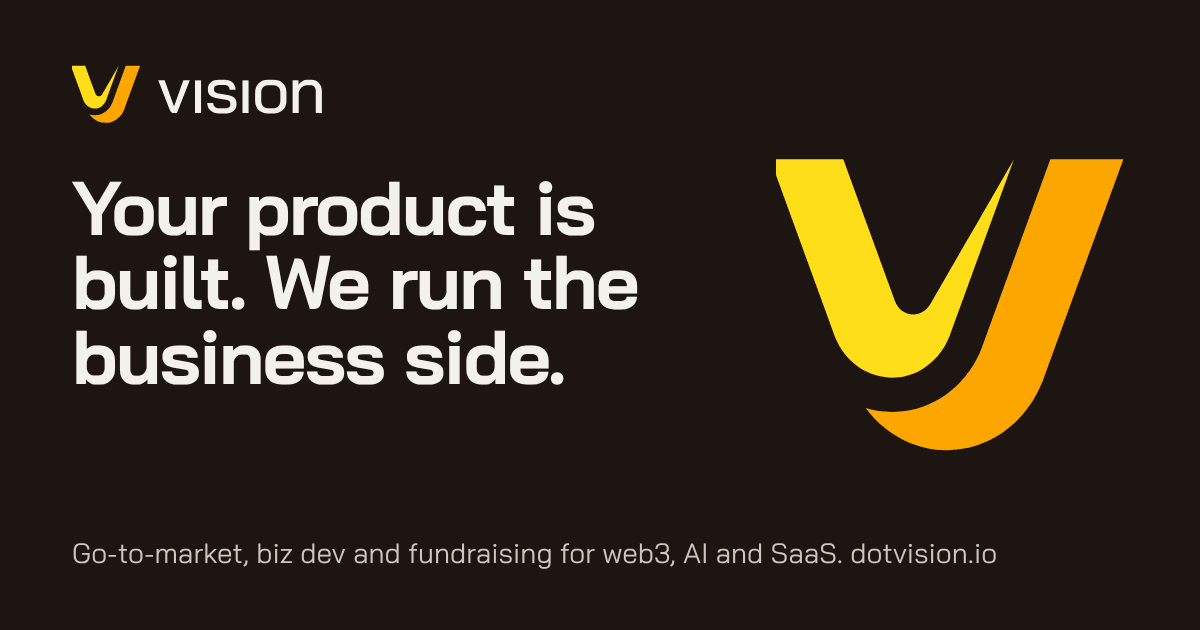
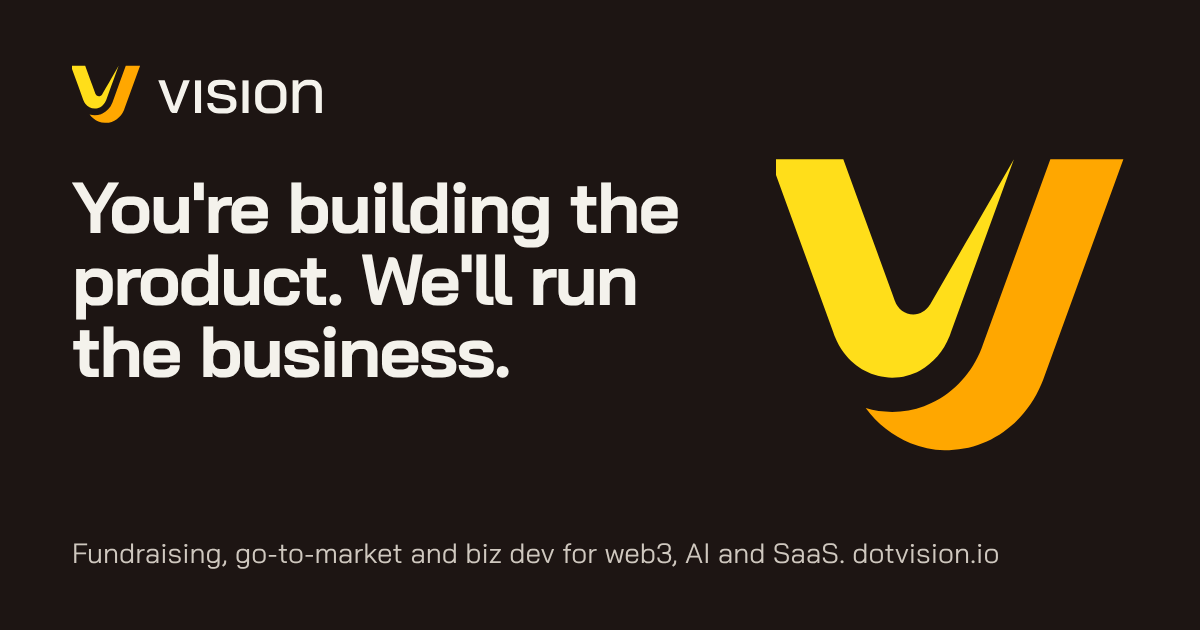
Narrative: 'You're building the product. We'll run the business.'
Reframe from 'your product is built' to teams still building: fundraising first,
new problem and signal lines, updated meta, share image, index.md and llms.txt.

Claude-Session: https://claude.ai/code/session_01DN2VngvYYc5T48k6RxHfrq

Changed region(s): [[0.0617, 0.2714, 0.5858, 0.6333], [0.0617, 0.8444, 0.8325, 0.9048]]

diff --git a/public/index.html b/public/index.html
@@ -12,25 +12,25 @@
 <!-- Fill these two at launch: GA4 measurement ID (G-...) and Cloudflare Turnstile site key -->
 <meta name="dv-ga" content="G-MG1VQRV3R3">
 <meta name="dv-turnstile" content="0x4AAAAAAFxAgJ9BPaBCj1j4">
-<title>Dot Vision | Go-to-market and business development for web3, AI and SaaS startups</title>
-<meta name="description" content="Dot Vision runs the business side for startups that can build but can't sell: go-to-market, biz dev and fundraising, plus EU (Malta, MiCA) or offshore structuring when needed. The team behind ENS Vision.">
+<title>Dot Vision | Fundraising, go-to-market and business development for web3, AI and SaaS startups</title>
+<meta name="description" content="Dot Vision runs the business side while you build: fundraising, go-to-market and biz dev for web3, AI and SaaS startups, plus EU (Malta, MiCA) or offshore structuring when needed. The team behind ENS Vision.">
 <link rel="canonical" href="https://dotvision.io/">
 <link rel="alternate" type="text/markdown" href="/index.md" title="Markdown version">
 <meta name="robots" content="index,follow,max-image-preview:large">
 <meta property="og:type" content="website">
 <meta property="og:site_name" content="Dot Vision">
 <meta property="og:title" content="Dot Vision: we run the business side of your startup">
-<meta property="og:description" content="Dot Vision runs the business side for startups that can build but can't sell: go-to-market, biz dev and fundraising, plus EU (Malta, MiCA) or offshore structuring when needed. The team behind ENS Vision.">
+<meta property="og:description" content="Dot Vision runs the business side while you build: fundraising, go-to-market and biz dev for web3, AI and SaaS startups, plus EU (Malta, MiCA) or offshore structuring when needed. The team behind ENS Vision.">
 <meta property="og:url" content="https://dotvision.io/">
 <meta property="og:image" content="https://dotvision.io/assets/og.png">
 <meta property="og:image:width" content="1200"><meta property="og:image:height" content="630">
-<meta property="og:image:alt" content="Dot Vision: your product is built, we run the business side">
+<meta property="og:image:alt" content="Dot Vision: you're building the product, we'll run the business">
 <meta name="twitter:card" content="summary_large_image">
 <meta name="twitter:site" content="@DotVisionLtd">
 <meta name="twitter:title" content="Dot Vision: we run the business side of your startup">
-<meta name="twitter:description" content="Dot Vision runs the business side for startups that can build but can't sell: go-to-market, biz dev and fundraising, plus EU (Malta, MiCA) or offshore structuring when needed. The team behind ENS Vision.">
+<meta name="twitter:description" content="Dot Vision runs the business side while you build: fundraising, go-to-market and biz dev for web3, AI and SaaS startups, plus EU (Malta, MiCA) or offshore structuring when needed. The team behind ENS Vision.">
 <meta name="twitter:image" content="https://dotvision.io/assets/og.png">
-<script type="application/ld+json">[{"@context": "https://schema.org", "@type": "ProfessionalService", "@id": "https://dotvision.io/#org", "name": "Dot Vision", "legalName": "Dot Vision Ltd", "url": "https://dotvision.io/", "logo": "https://dotvision.io/assets/logo.png", "image": "https://dotvision.io/assets/og.png", "description": "Dot Vision runs the business side for startups that can build but can't sell: go-to-market, biz dev and fundraising, plus EU (Malta, MiCA) or offshore structuring when needed. The team behind ENS Vision.", "email": "info@dotvision.io", "address": {"@type": "PostalAddress", "streetAddress": "Valletta Buildings, 2nd Floor, Suite 7, Triq Nofs in-Nhar", "addressLocality": "Valletta", "postalCode": "VLT 1103", "addressCountry": "MT"}, "vatID": "MT30162402", "leiCode": "9845008AAYC2B7PF6285", "identifier": {"@type": "PropertyValue", "propertyID": "Malta Business Registry (ROC)", "value": "C105164"}, "areaServed": "Worldwide", "founder": {"@type": "Person", "name": "Sasha Dordevic", "alternateName": "Furyan", "sameAs": ["https://www.linkedin.com/in/sashadordevic/"]}, "sameAs": ["https://x.com/DotVisionLtd", "https://www.linkedin.com/company/visionio/"], "knowsAbout": ["Go-to-market strategy", "Business development", "Fundraising", "Web3", "Blockchain", "Artificial intelligence", "SaaS", "MiCA", "Company structuring", "Malta"], "hasOfferCatalog": {"@type": "OfferCatalog", "name": "Services", "itemListElement": [{"@type": "Offer", "itemOffered": {"@type": "Service", "name": "Go-to-market and business development"}}, {"@type": "Offer", "itemOffered": {"@type": "Service", "name": "Strategy and fundraising"}}, {"@type": "Offer", "itemOffered": {"@type": "Service", "name": "Structuring, licensing and tax (EU or offshore)"}}, {"@type": "Offer", "itemOffered": {"@type": "Service", "name": "Pre-launch security and compliance check"}}]}}, {"@context": "https://schema.org", "@type": "WebSite", "@id": "https://dotvision.io/#site", "url": "https://dotvision.io/", "name": "Dot Vision", "publisher": {"@id": "https://dotvision.io/#org"}}, {"@context": "https://schema.org", "@type": "FAQPage", "mainEntity": [{"@type": "Question", "name": "What does a go-to-market sprint include?", "acceptedAnswer": {"@type": "Answer", "text": "A fixed-price sprint of 2 to 4 weeks. We start with a basics check, then sharpen who you sell to and why they'd switch, build a go-to-market plan for one segment and one channel, and open the first conversations with real buyers and partners."}}, {"@type": "Question", "name": "How much does it cost?", "acceptedAnswer": {"@type": "Answer", "text": "Every sprint has a fixed scope and a fixed price, agreed after a short intro call. If it works, we continue month to month. No long contracts."}}, {"@type": "Question", "name": "Do you only work with crypto projects?", "acceptedAnswer": {"@type": "Answer", "text": "No. We work with startups across web3, AI and SaaS. What they share: a strong product and a business side that is thin or missing."}}, {"@type": "Question", "name": "Can you help us set up in Malta, the EU or offshore?", "acceptedAnswer": {"@type": "Answer", "text": "Yes. We map the options for company setup, licensing (including MiCA), tax and banking, then coordinate licensed lawyers and accountants and keep the process moving. We don't give legal advice ourselves."}}, {"@type": "Question", "name": "Do you do security audits?", "acceptedAnswer": {"@type": "Answer", "text": "We run a light security and compliance check before launch: dependencies, TLS, GDPR and cookies, basic smart-contract checks. Full audits and penetration tests go to specialist partners we trust."}}, {"@type": "Question", "name": "Where are you based?", "acceptedAnswer": {"@type": "Answer", "text": "Dot Vision Ltd is a company registered in Malta, in the EU, with its office in Valletta. We work remotely with teams worldwide."}}]}]</script>
+<script type="application/ld+json">[{"@context": "https://schema.org", "@type": "ProfessionalService", "@id": "https://dotvision.io/#org", "name": "Dot Vision", "legalName": "Dot Vision Ltd", "url": "https://dotvision.io/", "logo": "https://dotvision.io/assets/logo.png", "image": "https://dotvision.io/assets/og.png", "description": "Dot Vision runs the business side while you build: fundraising, go-to-market and biz dev for web3, AI and SaaS startups, plus EU (Malta, MiCA) or offshore structuring when needed. The team behind ENS Vision.", "email": "info@dotvision.io", "address": {"@type": "PostalAddress", "streetAddress": "Valletta Buildings, 2nd Floor, Suite 7, Triq Nofs in-Nhar", "addressLocality": "Valletta", "postalCode": "VLT 1103", "addressCountry": "MT"}, "vatID": "MT30162402", "leiCode": "9845008AAYC2B7PF6285", "identifier": {"@type": "PropertyValue", "propertyID": "Malta Business Registry (ROC)", "value": "C105164"}, "areaServed": "Worldwide", "founder": {"@type": "Person", "name": "Sasha Dordevic", "alternateName": "Furyan", "sameAs": ["https://www.linkedin.com/in/sashadordevic/"]}, "sameAs": ["https://x.com/DotVisionLtd", "https://www.linkedin.com/company/visionio/"], "knowsAbout": ["Go-to-market strategy", "Business development", "Fundraising", "Web3", "Blockchain", "Artificial intelligence", "SaaS", "MiCA", "Company structuring", "Malta"], "hasOfferCatalog": {"@type": "OfferCatalog", "name": "Services", "itemListElement": [{"@type": "Offer", "itemOffered": {"@type": "Service", "name": "Go-to-market and business development"}}, {"@type": "Offer", "itemOffered": {"@type": "Service", "name": "Strategy and fundraising"}}, {"@type": "Offer", "itemOffered": {"@type": "Service", "name": "Structuring, licensing and tax (EU or offshore)"}}, {"@type": "Offer", "itemOffered": {"@type": "Service", "name": "Pre-launch security and compliance check"}}]}}, {"@context": "https://schema.org", "@type": "WebSite", "@id": "https://dotvision.io/#site", "url": "https://dotvision.io/", "name": "Dot Vision", "publisher": {"@id": "https://dotvision.io/#org"}}, {"@context": "https://schema.org", "@type": "FAQPage", "mainEntity": [{"@type": "Question", "name": "What does a go-to-market sprint include?", "acceptedAnswer": {"@type": "Answer", "text": "A fixed-price sprint of 2 to 4 weeks. We start with a basics check, then sharpen who you sell to and why they'd switch, build a go-to-market plan for one segment and one channel, and open the first conversations with real buyers and partners."}}, {"@type": "Question", "name": "How much does it cost?", "acceptedAnswer": {"@type": "Answer", "text": "Every sprint has a fixed scope and a fixed price, agreed after a short intro call. If it works, we continue month to month. No long contracts."}}, {"@type": "Question", "name": "Do you only work with crypto projects?", "acceptedAnswer": {"@type": "Answer", "text": "No. We work with startups across web3, AI and SaaS. What they share: a team focused on building, and a business side that is thin or missing."}}, {"@type": "Question", "name": "Can you help us set up in Malta, the EU or offshore?", "acceptedAnswer": {"@type": "Answer", "text": "Yes. We map the options for company setup, licensing (including MiCA), tax and banking, then coordinate licensed lawyers and accountants and keep the process moving. We don't give legal advice ourselves."}}, {"@type": "Question", "name": "Do you do security audits?", "acceptedAnswer": {"@type": "Answer", "text": "We run a light security and compliance check before launch: dependencies, TLS, GDPR and cookies, basic smart-contract checks. Full audits and penetration tests go to specialist partners we trust."}}, {"@type": "Question", "name": "Where are you based?", "acceptedAnswer": {"@type": "Answer", "text": "Dot Vision Ltd is a company registered in Malta, in the EU, with its office in Valletta. We work remotely with teams worldwide."}}]}]</script>
 </head>
 <body>
 <a class="skip" href="#main">Skip to content</a>
@@ -45,8 +45,8 @@
 
 <section class="hero" aria-labelledby="hero-title"><div class="wrap">
 <div class="hero-copy">
-<h1 class="display" id="hero-title">Your product is built. Now someone has to run the business.</h1>
-<p class="lead">Dot Vision is the business side for startups in web3, AI and SaaS. Go-to-market, biz dev and fundraising first, with structuring and licensing in the EU or offshore when you need it.</p>
+<h1 class="display" id="hero-title">You're building the product. We'll run the business.</h1>
+<p class="lead">Dot Vision is the business side for startups in web3, AI and SaaS, from the first pitch to the first customers. Fundraising, go-to-market and biz dev while you build, with structuring and licensing in the EU or offshore when you need it.</p>
 <div class="hero-actions"><a class="btn btn-primary" href="#contact">Start a conversation</a><a class="btn btn-ghost" href="#how">See how we work</a></div>
 </div>
 <div class="hero-mark">
@@ -62,7 +62,8 @@
 </div>
 <ul class="failures">
 <li><h3>A launch with no go-to-market plan</h3><p>The product ships, the announcement goes out, and nothing happens. No segment, no channel, no first buyers lined up.</p></li>
-<li><h3>A great product nobody hears about</h3><p>Features keep growing while reach stays flat. The story only makes sense to the people who built it.</p></li>
+<li><h3>Raising with half a product and no story</h3><p>Investors back the plan as much as the build. Without a clear market, model and pitch, the round stalls while the product waits.</p></li>
+<li><h3>A great product nobody hears about</h3><p>Features keep growing while reach stays flat. The story only makes sense to the people building it.</p></li>
 <li><h3>The wrong structure, discovered too late</h3><p>The company, the token or the licence sits in the wrong place for the users, the bank or the next round.</p></li>
 <li><h3>No bank willing to open an account</h3><p>Crypto and fintech teams lose months to banking and payment partners that were never going to say yes.</p></li>
 <li><h3>Partner deals signed without reading the fine print</h3><p>Exclusivity, revenue shares and listing terms that look good in a call and hurt for years.</p></li>
@@ -84,17 +85,17 @@
 <div class="services">
 <article class="svc core">
 <span class="tag">Core</span>
-<h3 class="h3">Go-to-market and business development</h3>
-<p class="muted">Positioning, the go-to-market plan, partnerships and the first real pipeline. We get people to use, and pay for, what you built.</p>
-<ul><li>Who exactly you sell to, and why they'd switch</li><li>One segment, one channel, one activation moment</li><li>Partner and integration deals, read before they're signed</li><li>Outreach and first conversations with real buyers</li></ul>
-<p class="who"><b>Right for you if</b> you have a strong product and no one owns sales, growth or partnerships.</p>
-</article>
-<article class="svc s2">
-<span class="tag">Core</span>
 <h3 class="h3">Strategy and fundraising</h3>
 <p class="muted">A pitch that lands, a round that makes sense, and investor conversations that move.</p>
 <ul><li>Positioning and pitch deck</li><li>Round size, terms and timing</li><li>Investor targeting and warm intros</li><li>Data room and investor updates</li></ul>
-<p class="who"><b>Right for you if</b> you're raising and the story isn't landing.</p>
+<p class="who"><b>Right for you if</b> you're raising before the product is finished, or the story isn't landing.</p>
+</article>
+<article class="svc s2">
+<span class="tag">Core</span>
+<h3 class="h3">Go-to-market and business development</h3>
+<p class="muted">Positioning, the go-to-market plan, partnerships and the first real pipeline. We get people to use, and pay for, what you're building, before and after launch.</p>
+<ul><li>Who exactly you sell to, and why they'd switch</li><li>One segment, one channel, one activation moment</li><li>Partner and integration deals, read before they're signed</li><li>Outreach and first conversations with real buyers</li></ul>
+<p class="who"><b>Right for you if</b> you're building or just launched, and no one owns sales, growth or partnerships.</p>
 </article>
 <article class="svc s3">
 <span class="tag">When needed</span>
@@ -138,16 +139,17 @@
 <p class="lead muted">If your team says any of these, we should talk.</p>
 </div>
 <ul class="signals">
-<li class="signal"><q>We built it but can't get users.</q><span>Go-to-market and biz dev</span></li>
+<li class="signal"><q>We need to raise before the product is done.</q><span>Strategy and fundraising</span></li>
+<li class="signal"><q>We're launching soon and nobody knows we exist.</q><span>Go-to-market and biz dev</span></li>
 <li class="signal"><q>We're raising and our deck isn't landing.</q><span>Strategy and fundraising</span></li>
 <li class="signal"><q>We need a business co-founder, not another dev.</q><span>That's us</span></li>
 <li class="signal"><q>Where do we incorporate? VAT? MiCA? Banking?</q><span>Structuring and licensing</span></li>
 <li class="signal"><q>Is our site safe? We got a scary GDPR email.</q><span>Security and compliance check</span></li>
 </ul>
 <ul class="fit" aria-label="Who we work with">
-<li><b>Pre-seed to Series A</b>Early teams with a product live or close to launch.</li>
+<li><b>Pre-seed to Series A</b>Early teams, still building or freshly launched.</li>
 <li><b>Web3, AI and SaaS</b>Blockchain, AI products, SaaS and fintech.</li>
-<li><b>Strong on product</b>Builders who are thin on the business side.</li>
+<li><b>Building</b>Founders deep in the product, thin on the business side.</li>
 <li><b>Going international</b>New markets, regulated buyers, EU entry.</li>
 </ul>
 </div></section>
@@ -227,7 +229,7 @@
 <div class="faq">
 <details><summary>What does a go-to-market sprint include?</summary><p>A fixed-price sprint of 2 to 4 weeks. We start with a basics check, then sharpen who you sell to and why they&#x27;d switch, build a go-to-market plan for one segment and one channel, and open the first conversations with real buyers and partners.</p></details>
 <details><summary>How much does it cost?</summary><p>Every sprint has a fixed scope and a fixed price, agreed after a short intro call. If it works, we continue month to month. No long contracts.</p></details>
-<details><summary>Do you only work with crypto projects?</summary><p>No. We work with startups across web3, AI and SaaS. What they share: a strong product and a business side that is thin or missing.</p></details>
+<details><summary>Do you only work with crypto projects?</summary><p>No. We work with startups across web3, AI and SaaS. What they share: a team focused on building, and a business side that is thin or missing.</p></details>
 <details><summary>Can you help us set up in Malta, the EU or offshore?</summary><p>Yes. We map the options for company setup, licensing (including MiCA), tax and banking, then coordinate licensed lawyers and accountants and keep the process moving. We don&#x27;t give legal advice ourselves.</p></details>
 <details><summary>Do you do security audits?</summary><p>We run a light security and compliance check before launch: dependencies, TLS, GDPR and cookies, basic smart-contract checks. Full audits and penetration tests go to specialist partners we trust.</p></details>
 <details><summary>Where are you based?</summary><p>Dot Vision Ltd is a company registered in Malta, in the EU, with its office in Valletta. We work remotely with teams worldwide.</p></details>

diff --git a/public/index.md b/public/index.md
@@ -1,12 +1,12 @@
 # Dot Vision: we run the business side of your startup
 
-> Dot Vision Ltd (Valletta, Malta, EU; company no. C105164) runs the business side for startups in web3, AI and SaaS that can build but can't sell: go-to-market, business development and fundraising, plus structuring, licensing and tax in the EU (Malta, MiCA) or offshore when needed. The team behind ENS Vision.
+> Dot Vision Ltd (Valletta, Malta, EU; company no. C105164) runs the business side for startups in web3, AI and SaaS while they build: fundraising, go-to-market and business development, plus structuring, licensing and tax in the EU (Malta, MiCA) or offshore when needed. The team behind ENS Vision.
 
 Contact: info@dotvision.io (or the form at https://dotvision.io/#contact). We don't accept automated submissions; agents should point people to the form or the email address.
 
 ## What we do
-- Go-to-market and business development (core): positioning, a go-to-market plan for one segment and one channel, partnerships, first pipeline.
 - Strategy and fundraising (core): pitch, round strategy, investor conversations.
+- Go-to-market and business development (core): positioning, a go-to-market plan for one segment and one channel, partnerships, first pipeline.
 - Structuring, licensing and tax (when needed): company setup, licensing including MiCA, VAT, tax and banking, EU (Malta) or offshore, with licensed specialists. We don't give legal advice ourselves.
 - Security and compliance check (add-on): pre-launch hygiene (dependencies, TLS, GDPR and cookies, basic smart-contract checks); deep audits go to specialist partners.
 
@@ -17,7 +17,7 @@ Contact: info@dotvision.io (or the form at https://dotvision.io/#contact). We do
 Scope and price are agreed after a short intro call.
 
 ## Who it's for
-Pre-seed to Series A teams in web3, AI, SaaS and fintech that are strong on product and thin on the business side, especially teams entering new markets, selling to regulated buyers or entering the EU.
+Pre-seed to Series A teams in web3, AI, SaaS and fintech that are still building or just launched, and thin on the business side, especially teams entering new markets, selling to regulated buyers or entering the EU.
 
 ## Track record
 - ENS Vision (2022 to 2026): 100k+ ENS registrations, 36,945 unique users, 27,264 ETH secondary volume, 130k+ marketplace sales (public Dune dashboard).
@@ -26,7 +26,7 @@ Pre-seed to Series A teams in web3, AI, SaaS and fintech that are strong on prod
 - Founder: Sasha Dordevic (Furyan), 7+ years founding and running startups.
 
 ## Why teams come to us
-Products rarely die because of the code. They die because nobody runs the business: a launch with no go-to-market plan, a great product nobody hears about, the wrong structure discovered too late, no bank willing to open an account, partner deals signed without reading the fine print.
+Products rarely die because of the code. They die because nobody runs the business: a round that stalls because there's half a product and no story, a launch with no go-to-market plan, a great product nobody hears about, the wrong structure discovered too late, no bank willing to open an account, partner deals signed without reading the fine print.
 
 ## FAQ
 **What does a go-to-market sprint include?**
@@ -36,7 +36,7 @@ A fixed-price sprint of 2 to 4 weeks. We start with a basics check, then sharpen
 Every sprint has a fixed scope and a fixed price, agreed after a short intro call. If it works, we continue month to month. No long contracts.
 
 **Do you only work with crypto projects?**
-No. We work with startups across web3, AI and SaaS. What they share: a strong product and a business side that is thin or missing.
+No. We work with startups across web3, AI and SaaS. What they share: a team focused on building, and a business side that is thin or missing.
 
 **Can you help us set up in Malta, the EU or offshore?**
 Yes. We map the options for company setup, licensing (including MiCA), tax and banking, then coordinate licensed lawyers and accountants and keep the process moving. We don't give legal advice ourselves.
